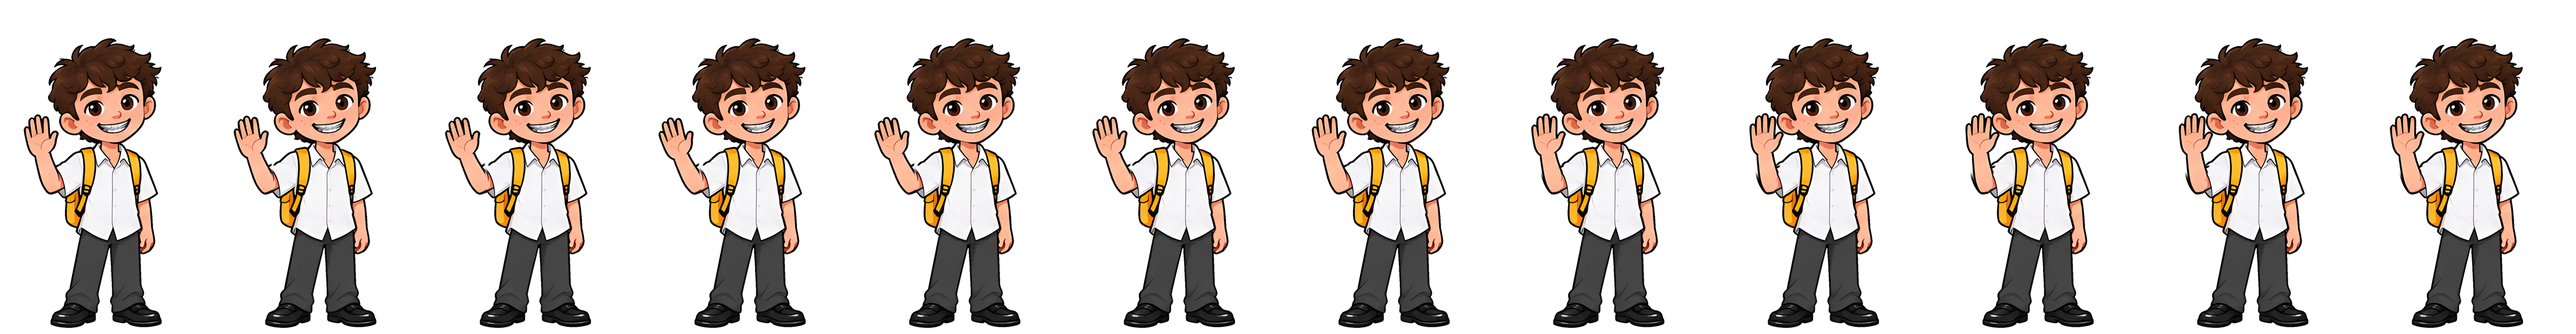
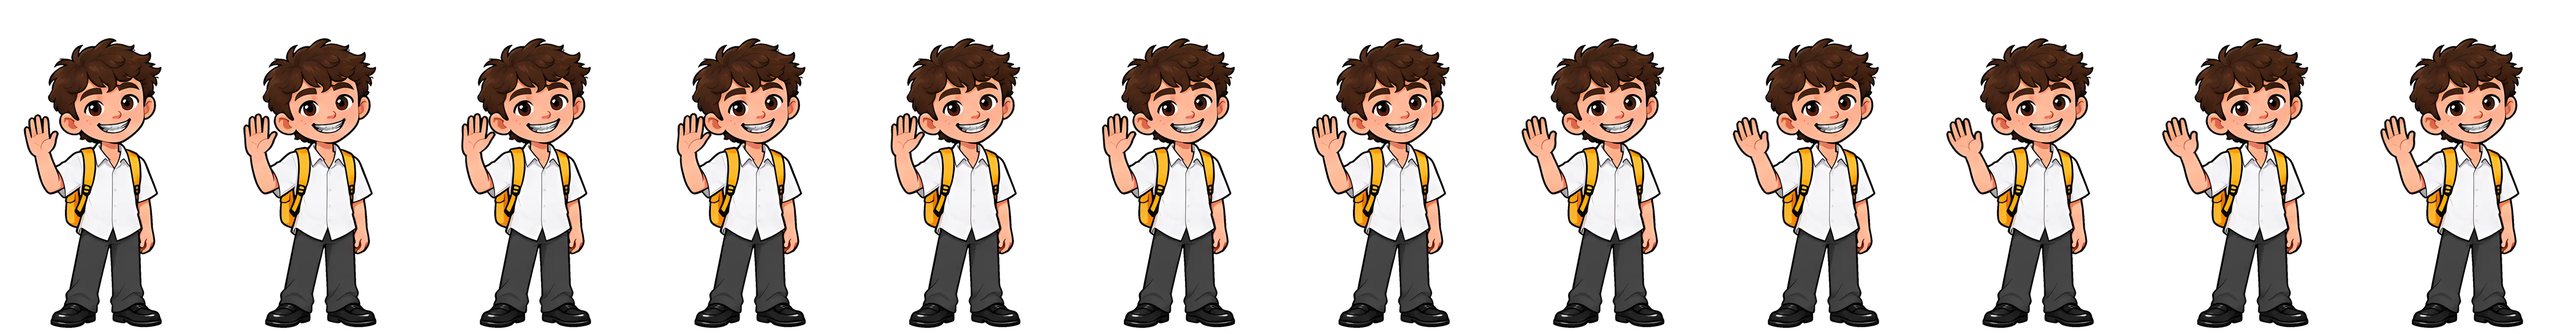
Mascot wave: bend the forearm smoothly instead of cutting it at the elbow
Claude-Session: https://claude.ai/code/session_01Jopw7fbJT89odwBZKyUk8P

diff --git a/site/mascot.js b/site/mascot.js
@@ -2,7 +2,7 @@
 // The strips hold the original drawings plus generated in-betweens (breathing, arm swing, jump arc).
 // Moods: happy (idle), wave, cheer (right answer), sad (oops), think, proud (static, sign-in page).
 (function () {
-  const V = 6;                                    // bump when the art changes
+  const V = 7;                                    // bump when the art changes
   const rand = (a, b) => a + Math.random() * (b - a);
   const run = (from, to, ms) => Array.from({ length: to - from + 1 }, (_, k) => [from + k, ms]);
   // seq(pass) returns the steps for this pass: [frame, ms]. Infinity holds the frame.
